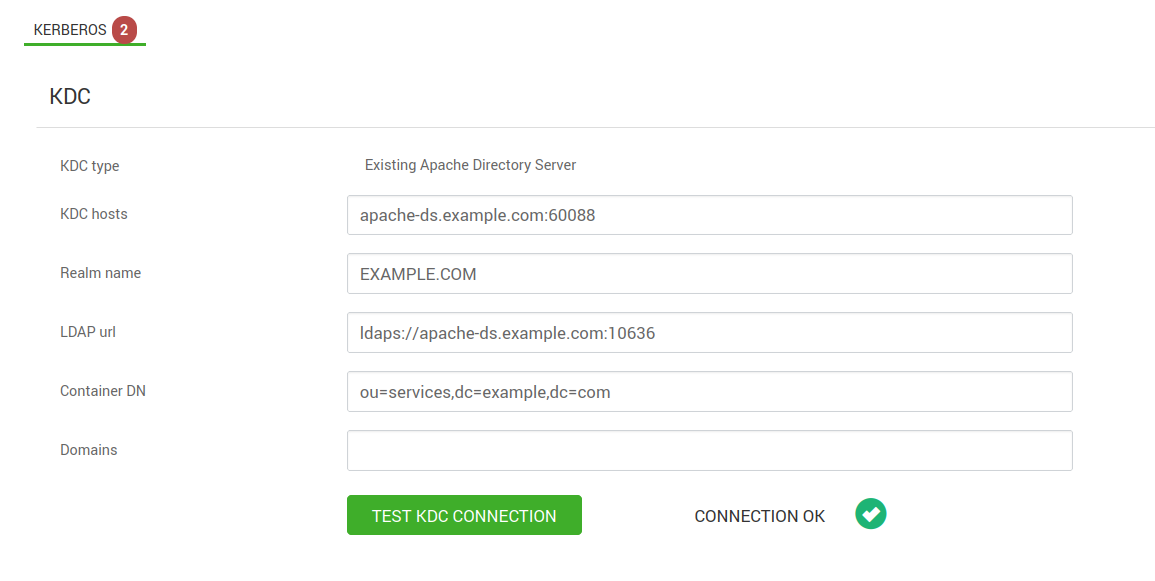
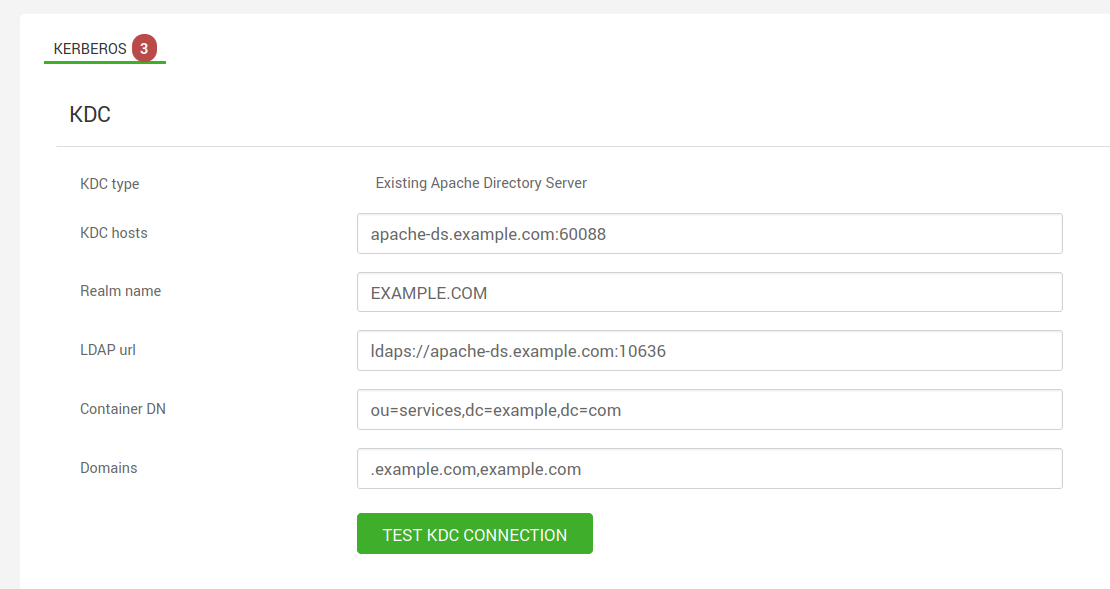
domain_realm missing in krb5.conf
https://web.mit.edu/kerberos/krb5-1.12/doc/admin/conf_files/krb5_conf.html

diff --git a/README.md b/README.md
@@ -8,9 +8,19 @@ docker compose up --build
 
 ## enable kerberos
 
-![configure-kerberos-1](https://github.com/eubnara/dockerize-ambari/blob/main/images/configure-kerberos-1.png)
-![configure-kerberos-2](https://github.com/eubnara/dockerize-ambari/blob/main/images/configure-kerberos-2.png)
+![configure-kerberos-1](images/configure-kerberos-1.png)
+![configure-kerberos-2](images/configure-kerberos-2.png)
 
-- realm: `EXAMPLE.COM`
-- admin principal: `uid=admin,ou=system`
-- admin password: `secret`
+
+```
+KDC hosts: apache-ds.example.com:60088
+Realm name: EXAMPLE.COM
+LDAP url: ldaps://apache-ds.example.com:10636
+Container DN: ou=services,dc=example,dc=com
+Domains: `.example.com,example.com`
+```
+```
+Kadmin host: apache-ds.example.com:60088
+Admin principal: `uid=admin,ou=system`
+Admin password: `secret`
+```
